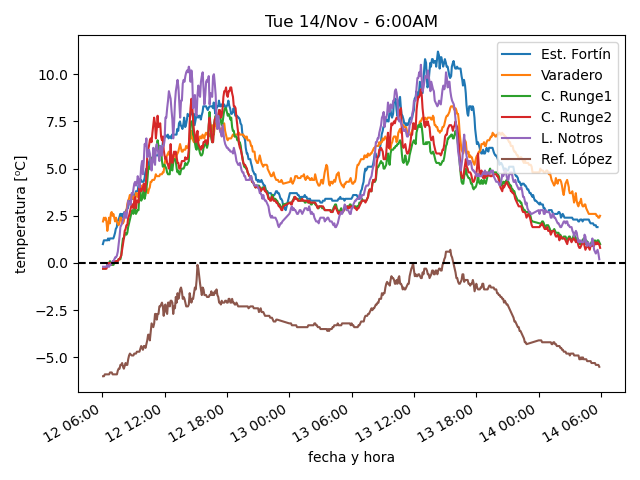
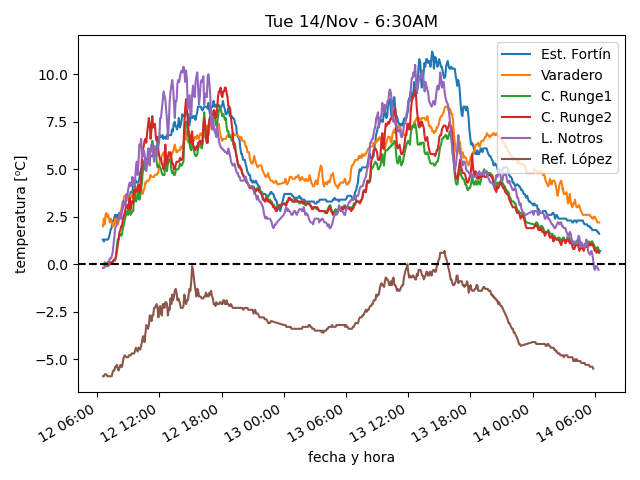
actualiza datos

diff --git a/estaciones/estacion3.html b/estaciones/estacion3.html
@@ -18,32 +18,32 @@
     </tr>
     <tr>
      <td class="stats_data">
-      5:54AM
+      6:29AM
      </td>
     </tr>
     <tr>
      <td class="stats_data">
-      1.0⁰C
+      0.7⁰C
      </td>
     </tr>
     <tr>
      <td class="stats_data">
-      -4.8⁰C
+      -5.0⁰C
      </td>
     </tr>
     <tr>
      <td class="stats_data">
-      65.3%
+      65.5%
      </td>
     </tr>
     <tr>
      <td class="stats_data">
-      1003.83hPa
+      1004.13hPa
      </td>
     </tr>
     <tr>
      <td class="stats_data">
-      5.2/7.1 km/hr WSW
+      5.6/8.4 km/hr SW
      </td>
     </tr>
     <tr>
@@ -58,7 +58,7 @@
     </tr>
     <tr>
      <td class="stats_data">
-      0.0 W/m²
+      8.6 W/m²
      </td>
     </tr>
    </tbody>

diff --git a/estaciones/estacion1.html b/estaciones/estacion1.html
@@ -18,22 +18,22 @@
     </tr>
     <tr>
      <td class="stats_data">
-      5:39AM
+      6:24AM
      </td>
     </tr>
     <tr>
      <td class="stats_data">
-      1.9⁰C
+      1.6⁰C
      </td>
     </tr>
     <tr>
      <td class="stats_data">
-      -3.5⁰C
+      -3.6⁰C
      </td>
     </tr>
     <tr>
      <td class="stats_data">
-      67.3%
+      68.3%
      </td>
     </tr>
     <tr>
@@ -43,7 +43,7 @@
     </tr>
     <tr>
      <td class="stats_data">
-      5.8/13.4 km/hr WSW
+      10.2/18.8 km/hr WSW
      </td>
     </tr>
     <tr>
@@ -58,7 +58,7 @@
     </tr>
     <tr>
      <td class="stats_data">
-      0.0 W/m²
+      9.0 W/m²
      </td>
     </tr>
    </tbody>

diff --git a/estaciones/estacion4.html b/estaciones/estacion4.html
@@ -18,12 +18,12 @@
     </tr>
     <tr>
      <td class="stats_data">
-      5:54AM
+      6:24AM
      </td>
     </tr>
     <tr>
      <td class="stats_data">
-      0.8⁰C
+      0.6⁰C
      </td>
     </tr>
     <tr>
@@ -33,7 +33,7 @@
     </tr>
     <tr>
      <td class="stats_data">
-      61.6%
+      62.8%
      </td>
     </tr>
     <tr>
@@ -43,7 +43,7 @@
     </tr>
     <tr>
      <td class="stats_data">
-      1.4/2.2 km/hr SW
+      1.8/3.5 km/hr SW
      </td>
     </tr>
     <tr>
@@ -58,7 +58,7 @@
     </tr>
     <tr>
      <td class="stats_data">
-      0.1 W/m²
+      5.1 W/m²
      </td>
     </tr>
    </tbody>

diff --git a/estaciones/estacion2.html b/estaciones/estacion2.html
@@ -18,17 +18,17 @@
     </tr>
     <tr>
      <td class="stats_data">
-      5:54AM
+      6:24AM
      </td>
     </tr>
     <tr>
      <td class="stats_data">
-      2.5⁰C
+      2.2⁰C
      </td>
     </tr>
     <tr>
      <td class="stats_data">
-      -4.2⁰C
+      -4.5⁰C
      </td>
     </tr>
     <tr>
@@ -43,7 +43,7 @@
     </tr>
     <tr>
      <td class="stats_data">
-      4.2/6.5 km/hr SW
+      3.7/5.2 km/hr SSW
      </td>
     </tr>
     <tr>
@@ -58,7 +58,7 @@
     </tr>
     <tr>
      <td class="stats_data">
-      0.0 W/m²
+      5.6 W/m²
      </td>
     </tr>
    </tbody>

diff --git a/estaciones/estacion5.html b/estaciones/estacion5.html
@@ -18,27 +18,27 @@
     </tr>
     <tr>
      <td class="stats_data">
-      5:50AM
+      6:20AM
      </td>
     </tr>
     <tr>
      <td class="stats_data">
-      0.2⁰C
+      -0.3⁰C
      </td>
     </tr>
     <tr>
      <td class="stats_data">
-      -3.8⁰C
+      -4.0⁰C
      </td>
     </tr>
     <tr>
      <td class="stats_data">
-      75.0%
+      76.0%
      </td>
     </tr>
     <tr>
      <td class="stats_data">
-      1017.95hPa
+      1018.22hPa
      </td>
     </tr>
     <tr>
